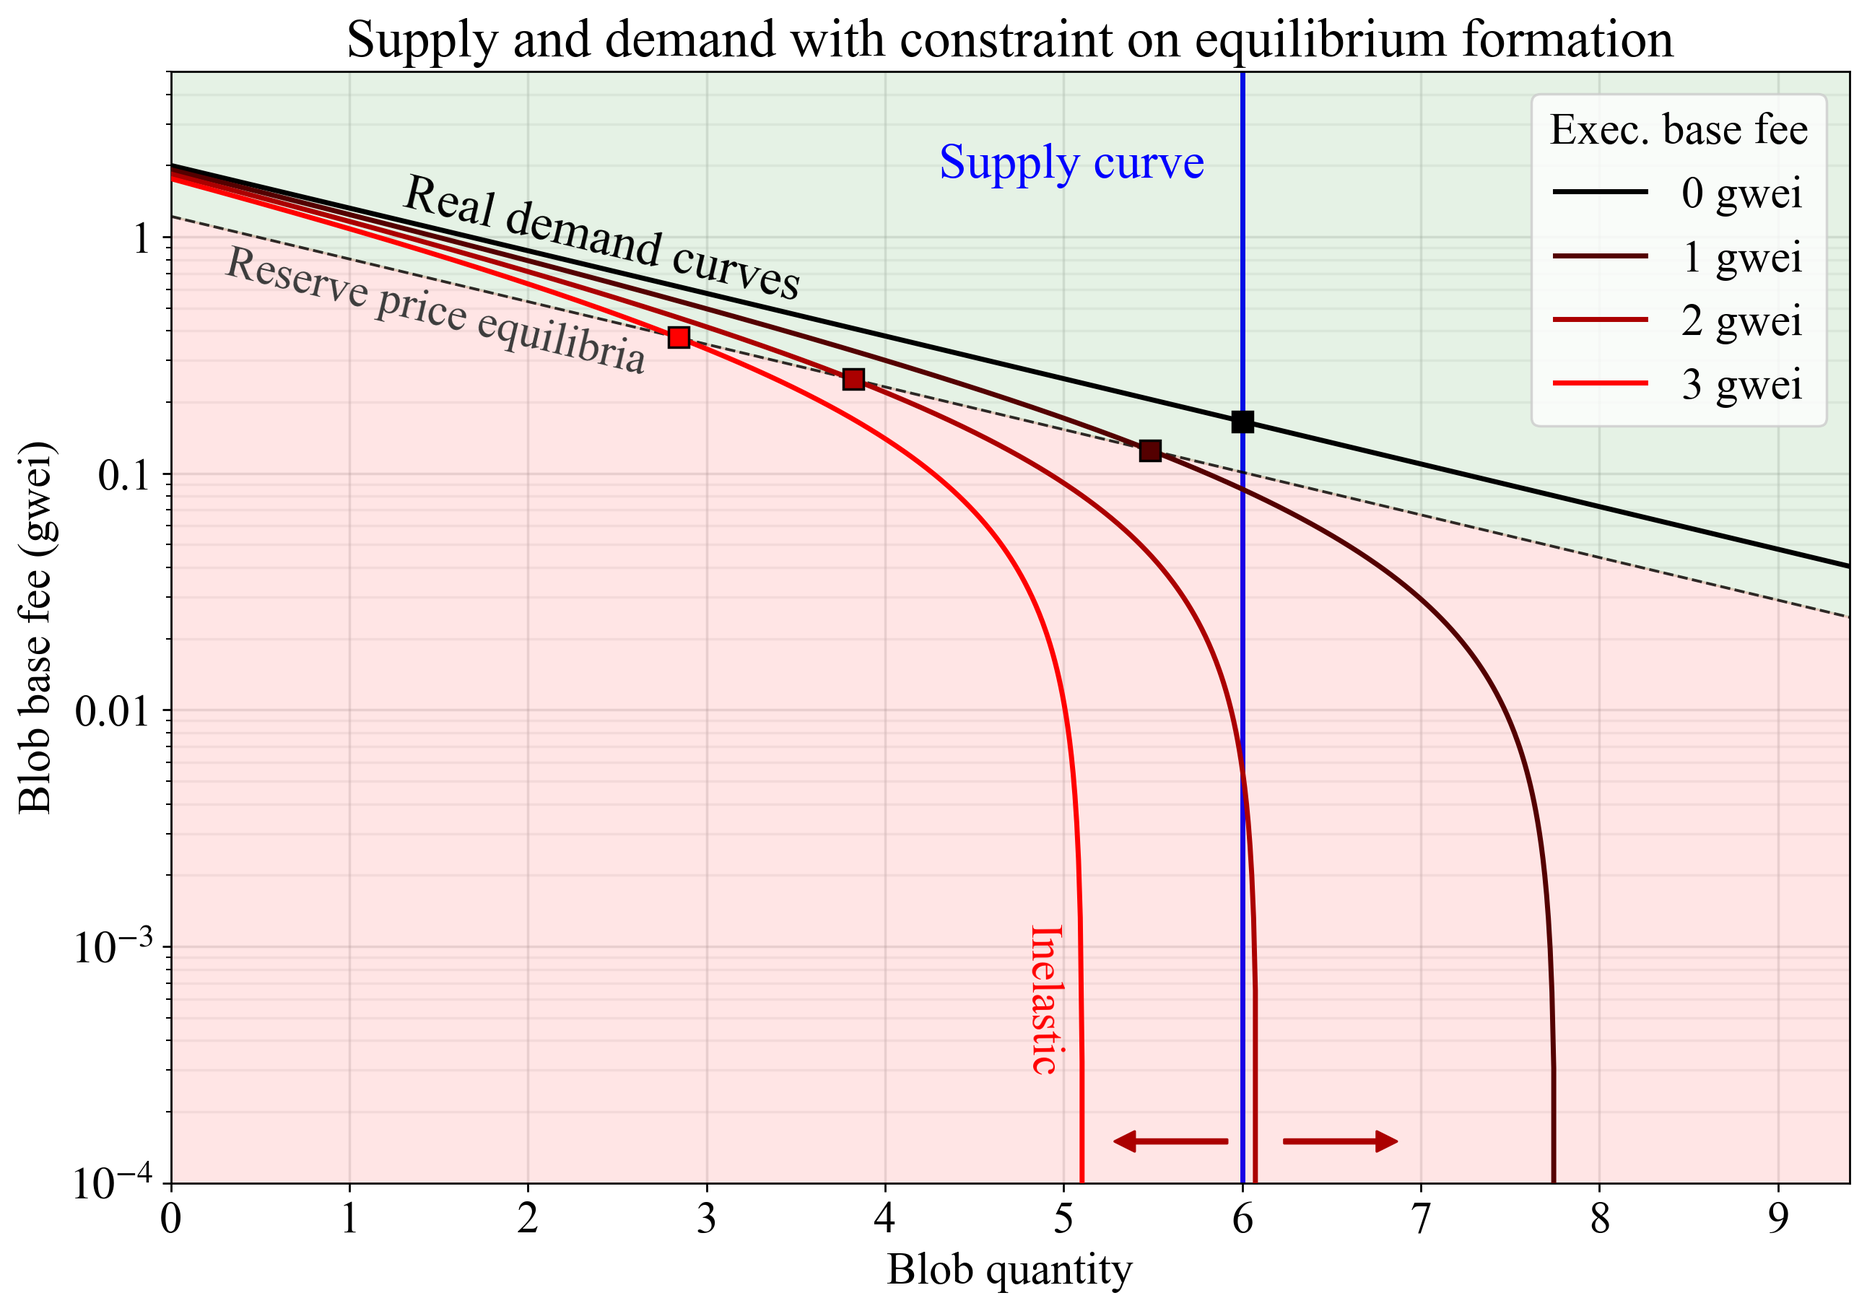
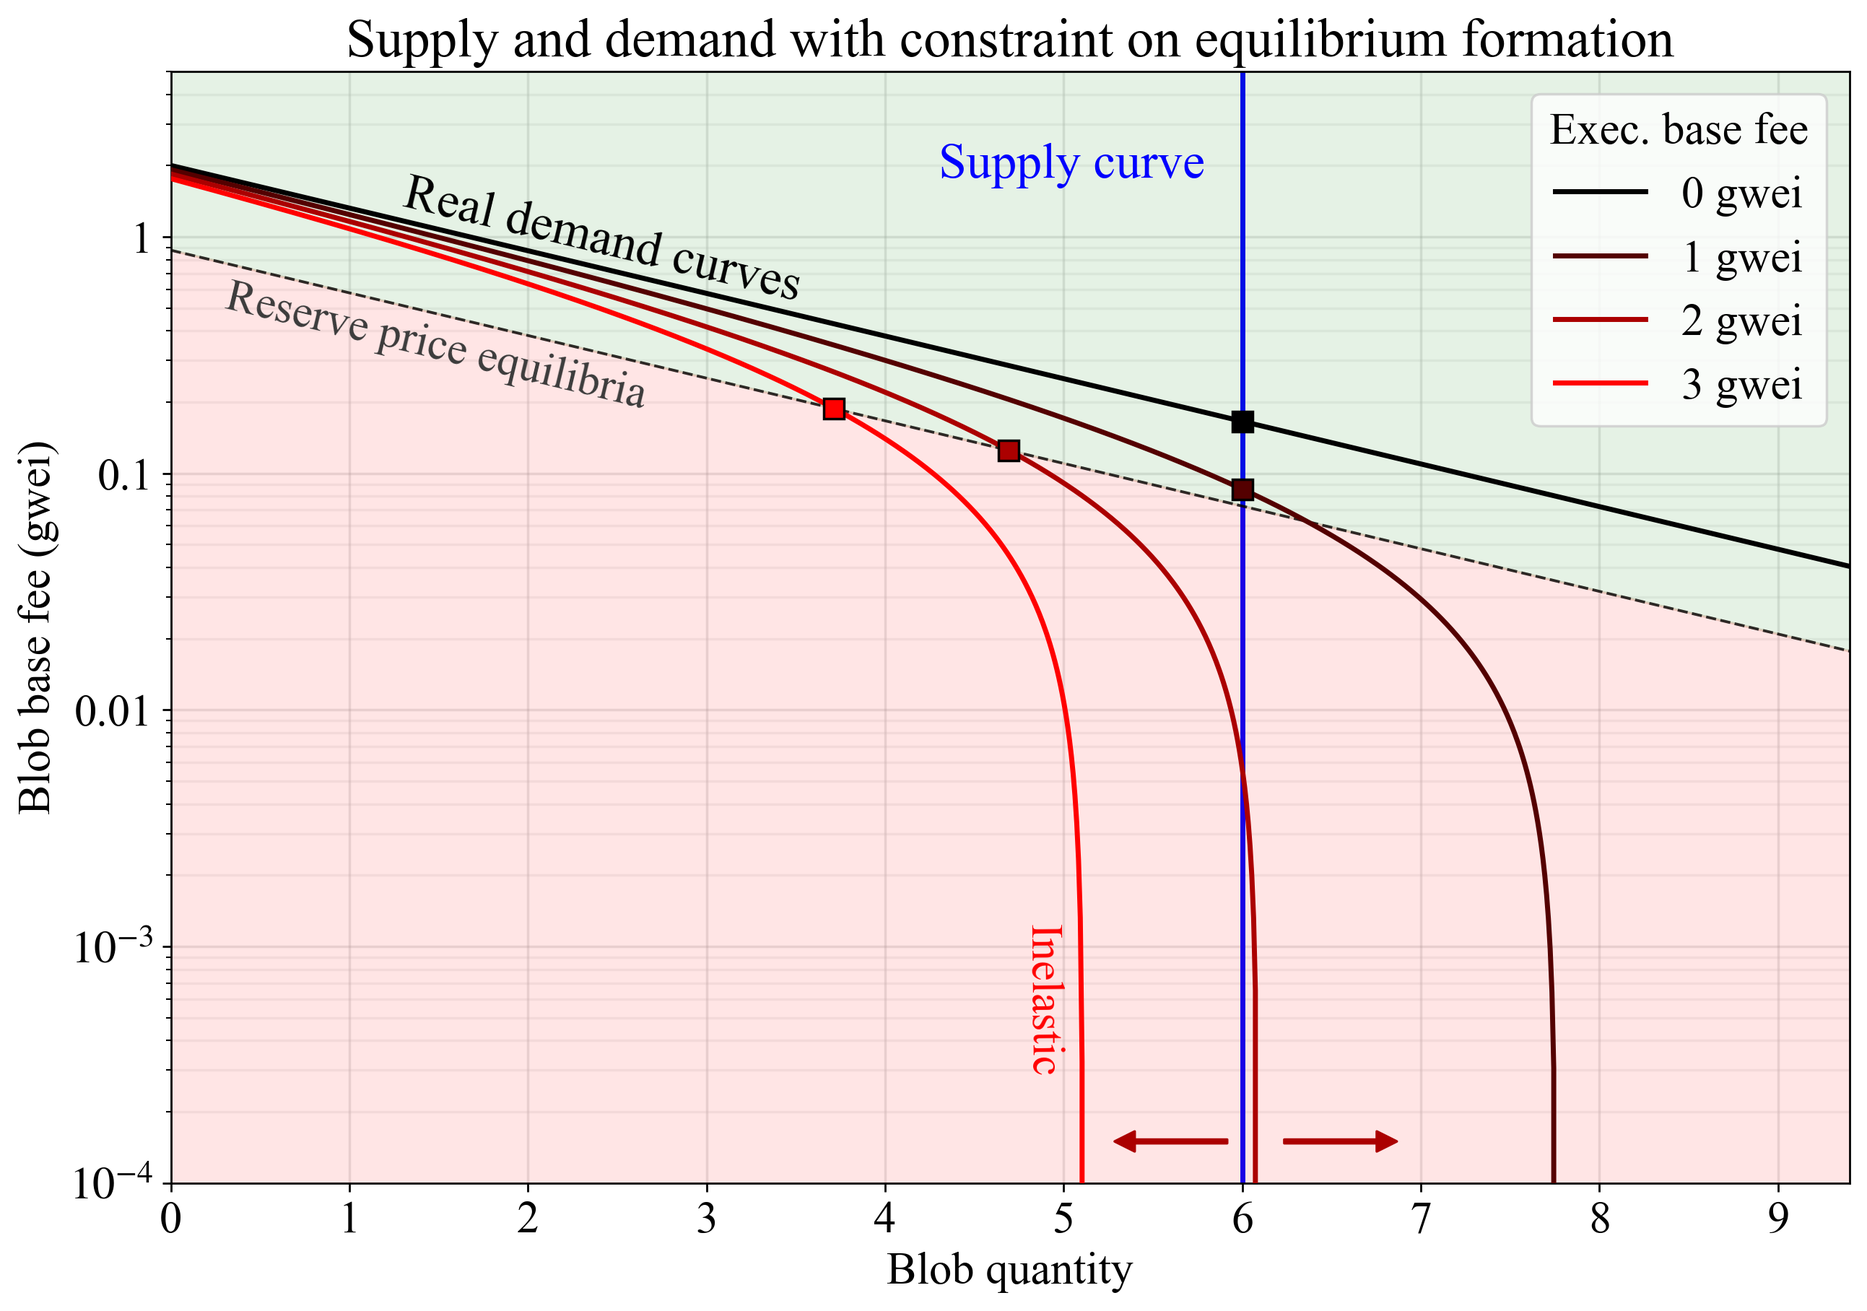
Improved clarity in the Motivation, Specification, and Rationale, and updated Figure 1

Changed region(s): [[0.0928, 0.1542, 0.9899, 0.4934]]

diff --git a/EIPS/eip-7918.md b/EIPS/eip-7918.md
@@ -1,7 +1,7 @@
 ---
 eip: 7918
 title: Blob base fee bounded by execution cost
-description: Imposes that the price for GAS_PER_BLOB is greater than the price for BLOB_BASE_COST
+description: Imposes that the price for GAS_PER_BLOB blob gas is greater than the price for BLOB_BASE_COST execution gas.
 author: Anders Elowsson (@anderselowsson), Ben Adams (@benaadams), Francesco D'Amato (@fradamt)
 discussions-to: https://ethereum-magicians.org/t/eip-blob-base-fee-bounded-by-price-of-blob-carrying-transaction/23271
 status: Review
@@ -13,22 +13,16 @@ requires: 4844, 7840
 
 ## Abstract
 
-This EIP assigns a reserve price `BLOB_BASE_COST * base_fee_per_gas` to blobs by introducing an `if`-clause in `calc_excess_blob_gas()`. Specifically, when the reserve price is higher than `GAS_PER_BLOB * base_fee_per_blob_gas`, the function will not subtract `target_blob_gas` from `excess_blob_gas`, instead imposing `excess_blob_gas` to increase according to `blob_gas_used`, but rebalanced to maintain the same maximum increase. The proposal ensures that the blob fee market can function properly and that blob consumers pay at least a relevant fraction of the market rate for the compute they request from nodes.
+This EIP assigns a reserve price `BLOB_BASE_COST * base_fee_per_gas` to blobs by introducing an `if`-clause in `calc_excess_blob_gas()`. Specifically, when the reserve price is higher than `GAS_PER_BLOB * base_fee_per_blob_gas`, the function will not subtract `target_blob_gas` from `excess_blob_gas`, causing `excess_blob_gas` to increase according to `blob_gas_used`, while keeping the per-block maximum increase unchanged. The proposal ensures that the blob fee market can function properly and that blob consumers pay at least a relevant fraction of the market rate for the compute they request from nodes.
 
 ## Motivation
 
-Ethereum uses a dynamic pricing auction to set the blob base fee, lowering the fee if less gas is consumed than `target_blob_gas = GAS_PER_BLOB * blobSchedule.target` and raising the fee if more gas is consumed. Such an auction can function well when the blob base fee represents the price signal, allowing the mechanism to control the real price facing the consumer. However, when a rollup's costs are dominated by, e.g., executing blob-carrying transactions, ZK proof verification, or paying priority fees, the price signal is lost. The blob base fee no longer represents a significant component of the total cost facing the consumer, and the protocol can no longer rely on the blob base fee to control the equilibrium quantity of blobs consumed. The current mechanism can therefore end up repeatedly lowering the blob base fee until it eventually settles at 1 wei. A change in the blob base fee of 10% may under such circumstances shift the total cost of utilizing blobspace by just 0.0000001%. Whenever demand picks up, over an hour of near-full blocks is required to restore a market-clearing equilibrium fee, with the mechanism intermittently resorting to a first-price auction, considered a worse UX by blob consumers. The resulting spikiness in resource consumption is suboptimal for scaling blobspace. 
+Ethereum uses a dynamic pricing auction to set the blob base fee, lowering the fee if less gas is consumed than `target_blob_gas = GAS_PER_BLOB * blobSchedule.target` and raising the fee if more gas is consumed. Such an auction can function well when the blob base fee represents the price signal, allowing the mechanism to control the real price for blob consumers. However, when execution costs dominate, the price signal is lost. The blob base fee then no longer represents a significant component of the total cost facing the consumer, and the protocol can no longer rely on the blob base fee to control the equilibrium quantity of blobs consumed. The current mechanism can therefore end up repeatedly lowering the blob base fee until it eventually settles at 1 wei. A change in the blob base fee of 10% may under such circumstances shift the total cost of utilizing blobspace by just 0.0000001%. Whenever demand picks up, over an hour of near-full blocks is required to restore a market-clearing equilibrium fee, with the mechanism intermittently resorting to a first-price auction, considered a worse UX by blob consumers. The resulting spikiness in resource consumption is suboptimal for scaling blobspace.
 
-Figure 1 shows how execution costs make the real demand curve inelastic, such that relatively small shifts in organic demand or execution base fee (arrows) can lead to dramatic shifts in the equilibrium blob base fee. To alleviate this, the proposal imposes a reserve price, that reflects execution costs, through a simple `if`-clause in `calc_excess_blob_gas()`. The equilibrium (squares) must then form somewhere along the edge of the upper-left quadrant, bounded by the blue supply curve and the dashed curve representing possible reserve price equilibria under real demand (see rationale for a further elaboration).
+To alleviate this, the proposal imposes a reserve price that reflects execution costs, through a simple `if`-clause in `calc_excess_blob_gas()`. The reserve price also fulfills a second function. Nodes must cryptographically verify KZG `proofs` to ensure that associated `commitments` correspond to provided blobs. This process is computationally expensive. It seems desirable to ensure that blob consumers pay at least some fraction of the market rate for the compute they impose on nodes. In this context, the execution base fee reflects how in-demand nodes' compute services are at the time that blob consumers request them. By applying the reserve price to the blob base fee, the proposal jointly ensures that:
 
-The reserve price also fulfills a second function. Nodes must cryptographically verify KZG `proofs` to ensure that associated `commitments` correspond to provided blobs. This process is computationally expensive. It seems desirable to ensure that blob consumers pay at least some fraction of the market rate for the compute they impose on nodes. In this context, the execution base fee reflects how in-demand nodes' compute services are at the time that blob consumers request them. By applying the reserve price to the blob base fee, the proposal jointly ensures that:
-
-1. The blob base fee update mechanism can function properly, by establishing a reserve price which is significant relative to L1 execution costs of the blob consumer. 
+1. The blob base fee update mechanism can function properly, by establishing a reserve price which is significant relative to L1 execution costs of blob consumers (e.g., rollups). 
 2. Blob consumers pay at least a relevant fraction of the market rate for the compute they request from nodes, with any additional fees for data determined independently in the blob fee market.
-
-![Figure 1](../assets/eip-7918/1.png)
-
-**Figure 1.** The real demand for blobspace under different execution base fees (black to red lines). When execution cost dominates, the real demand curve becomes inelastic and parallel to the supply curve, leading the equilibrium fee to change dramatically even with small shifts in the demand curve (arrows). The proposal imposes that the equilibrium (square) forms on the edges of the upper-left quadrant, at the intersection between the target supply curve and demand or along the dashed line representing possible reserve price equilibria accounting for execution costs.
 
 ## Specification
 
@@ -40,7 +34,7 @@ The reserve price also fulfills a second function. Nodes must cryptographically 
 
 ### Functions
 
-An `if`-clause is added to `calc_excess_blob_gas()` from [EIP-4844](./eip-4844.md). The function no longer subtracts `target_blob_gas` when updating `excess_blob_gas`, if the price of a `blob` is below the price of `BLOB_BASE_COST` execution gas. The `blobSchedule` for referencing target and max blobs was introduced in [EIP-7840](./eip-7840.md). The *current block's* `blobSchedule` is used during processing. Thus, when calculating the `base_fee_per_blob_gas` via `get_base_fee_per_blob_gas(parent)` after a hard fork, the `fake_exponential()` function is called with the *new* `blobSchedule.baseFeeUpdateFraction`. Likewise, the *new* `blobSchedule.max` and `blobSchedule.target` are used in `calc_excess_blob_gas()`.
+An `if`-clause is added to `calc_excess_blob_gas()` from [EIP-4844](./eip-4844.md). The function no longer subtracts `target_blob_gas` when updating `excess_blob_gas`, if the price of a `blob` is below the price of `BLOB_BASE_COST` execution gas. The `blobSchedule` for referencing target and max blobs was introduced in [EIP-7840](./eip-7840.md). The current block's `blobSchedule` is used during processing. Thus, in the first post-fork block—when calculating `base_fee_per_blob_gas` via `get_base_fee_per_blob_gas(parent)`—`fake_exponential()` must use the *new* `blobSchedule.baseFeeUpdateFraction`. Likewise, the *new* `blobSchedule.max` and `blobSchedule.target` must be used in `calc_excess_blob_gas()`.
 
 ```python
 def calc_excess_blob_gas(parent: Header) -> int:
@@ -58,35 +52,39 @@ def calc_excess_blob_gas(parent: Header) -> int:
 
 ### Fee-inelasticity and reserve price
 
-This proposal alleviates idiosyncrasies in the blob base fee auction. The fee update mechanism is unaware of the full price of the goods that it regulates the price for and therefore fails to converge on equilibrium in a timely manner. To resolve this, a link to the price of execution gas is required. A relatively high cost of execution gas renders changes to the blob base fee less effective in controlling quantity demanded—it is then ultimately the execution cost that determines equilibrium formation. Given that the protocol stipulates a long-run perfectly inelastic supply curve (vertical blue line in Figure 1), the blob base fee will simply fall to the boundary of 1 wei whenever the execution cost is too high for consumers to achieve equilibrium formation at `target_blog_gas`. Thus, in the regime where execution fees dominate, the demand curve is *blob fee-inelastic*, and whenever the blob fees dominate, the demand curve is *execution fee-inelastic*. Figure 1 illustrates the real demand function
+This proposal alleviates idiosyncrasies in the blob base fee auction. When a rollup's costs are dominated by execution costs for the blob-carrying transactions, ZK proof verification, or priority fees, the protocol can no longer rely on the blob base fee to control the equilibrium quantity of blobs consumed. The fee update mechanism is unaware of the full price of the goods that it regulates the price for and therefore fails to converge on equilibrium in a timely manner. 
 
-$Q(b + c),$
+We can express a simple real demand function for blobspace as
 
-mapping quantity of blobs demanded $Q$ to the blob base fee $b$ and the user's execution costs, expressed "per blob gas", $c$:
+$Q(b + c).$
+
+It maps the quantity of blobs demanded $Q$ to the blob base fee $b$ and the user's execution costs, expressed "per blob gas", $c$:
 
 ```python
 c = execution_cost * base_fee_per_gas / GAS_PER_BLOB
 ```
 
-If $c>0$, the demand curve will have an "inelasticity horizon" (see Figure 1), beyond which further reductions in $b$ no longer increase $Q$, rendering such fee reductions redundant:
+According to the *law of demand*, the lower the price $b+c$, the higher the demand. From the perspective of the blob base fee update mechanism, $c$ is fixed. If $c>0$, the demand curve will therefore have an "inelasticity horizon", beyond which further reductions in $b$ no longer increase $Q$:
 
 $\lim_{b \to 0} Q(b + c) = Q(c).$
 
-To avoid the inelasticity horizon, a reserve price $b_r$ is specified below which $b$ cannot be reduced further. It is calculated from the new constant `BLOB_BASE_COST` as: 
+In essence, the demand curve becomes a vertical line, where changes to the blob base fee $b$ no longer affect demand. Figure 1 illustrates this, with real demand curves (black to red) computed under four different execution base fees when purchasing two blobs. The hypothetical organic demand is illustrated in black. Any line with $c>0$ eventually becomes vertical as the blob base fee falls. The protocol also uses a long-run perfectly inelastic supply curve (vertical blue line). Therefore, relatively small shifts in organic demand or the execution base fee (arrows) can lead to dramatic shifts in the equilibrium blob base fee. Importantly, the blob base fee will simply fall to the boundary of 1 wei whenever the execution cost is too high for consumers to achieve equilibrium formation at `target_blob_gas`.
+
+![Figure 1](../assets/eip-7918/1.png)
+
+**Figure 1.** Hypothetical real demand for blobspace under different execution base fees (black to red lines). When execution cost dominates, the real demand curve becomes inelastic and parallel to the supply curve, leading the equilibrium fee to change dramatically even with small shifts in the demand curve (arrows). The proposal imposes that the equilibrium (square) forms on the edges of the upper-left quadrant, at the intersection between the target supply curve and demand or along the dashed line representing possible reserve price equilibria accounting for execution costs.
+
+To improve the fee update mechanism, a reserve price is specified below which $b$ cannot be reduced. Specifically, we define a constant `BLOB_BASE_COST` and in `calc_excess_blob_gas` do not subtract `target_blob_gas` if: 
 
 ```python
-b_r = BLOB_BASE_COST * base_fee_per_gas / GAS_PER_BLOB
+BLOB_BASE_COST * base_fee_per_gas > GAS_PER_BLOB * base_fee_per_blob_gas
 ```
 
-As long as $b_r$ is a relevant fraction of $c$, the fee update mechanism will always be able to regulate demand by increasing the blob base fee whenever there is contention for blobspace, alleviating spikiness in resource consumption. The blob fee's share of the total price ($b+c$) will with the reserve price always be at least 
+This means that the reserve blob base fee becomes `BLOB_BASE_COST * base_fee_per_gas / GAS_PER_BLOB` and that the ratio between the reserve price for the blob base fee and the execution base fee is fixed to: `BLOB_BASE_COST / GAS_PER_BLOB`. This ratio is `1/16` with the proposed constant. 
 
-$\frac{b_r}{b_r+c}$, which simplifies to `BLOB_BASE_COST / (BLOB_BASE_COST + execution_cost)`.
-
-This is why the equilibrium under the reserve price (dashed line in Figure 1) is situated a constant fraction $2^{13}/(2^{13}+10500)$ below the black demand curve formed under a 0 execution base fee.
+The blob fee's share of the total price will with the reserve price always be at least `BLOB_BASE_COST / (BLOB_BASE_COST + execution_cost)`. This is why the equilibrium under the reserve price (dashed line in Figure 1) is situated a constant fraction below the black organic demand curve formed under a zero execution base fee. The equilibrium (squares) must then form somewhere along the edge of the upper-left quadrant, bounded by the blue supply curve and the dashed curve representing possible reserve price equilibria under real demand.
 
 The demand curve could potentially be somewhat inelastic even under zero execution costs. This would however just be another reason to move forward with this proposal. Regardless of the exact shape of the demand curve—which of course will remain unknown and can vary going forward—the proposal is based on something tangible affecting blob consumers. This makes it a justified neutral bound on the blob base fee.
-
-The ratio between the reserve price for the blob base fee and the execution base fee is fixed: `BLOB_BASE_COST / GAS_PER_BLOB`, which is 1/16 with the proposed constant. The relationship follows from the new `if`-clause in `calc_excess_blob_gas()`.
 
 ### Blob KZG proof verification cost
 
@@ -102,7 +100,7 @@ EIP-4844 introduced the first phase of Ethereum's data availability sampling (DA
 
 For the verification performed on the CL in PeerDAS, the ability to jointly process cell proofs of a column (from all blobs) through batching reduces the compute time spent per blob as the number of blobs increases. When columns are batched sequentially, the compute time per blob is still quite high relative to the point evaluation. It is also possible to batch all columns jointly or to parallelize the processing across columns. When accounting for the prospect of parallelization for the CL, it is however worth remembering that the point evaluation proof verification performed by rollups using the precompile should generally not have many dependencies on other transactions in the execution block (both the point evaluation itself and operations taken conditional on the outcome) and thus also lends itself to parallelization. Such parallelization is an important current research focus. This means that a comparison between the point evaluation and the sequential processing of blobs (batched per column) is still relevant (because *both* could be parallelized). 
 
-Figure 1 shows verification time per blob divided by the measured execution time of a single point evaluation operation (performed by the `VerifyKZGProof` precompile) for various configurations. The figure indicates that blobs under the current Fusaka PeerDAS specification will subject nodes to rather heavy compute requirements—when compared to the single point evaluation proof verification that a smart contract is charged `POINT_EVALUATION_PRECOMPILE_GAS` for. A full node would for example do the EL mempool verification for all blobs propagated p2p (already 15x). It would also sample 8 columns which at a target of 32 blobs requires 2x more time when done sequentially (batching each column separately), and they would finally custody 4 designated columns which are about equally as demanding as the point evaluation. How to price the KZG proof verification is however a complex question given the varying contexts in which it is performed. The proposed constant `BLOB_BASE_COST` is indicated by a green line and relatively moderate in comparison with the compute costs imposed on nodes. It is stipulated below the cost of full batching for DAS (8 columns), even under a very high blob count.
+Figure 2 shows verification time per blob divided by the measured execution time of a single point evaluation operation (performed by the `VerifyKZGProof` precompile) for various configurations. The figure indicates that blobs under the current Fusaka PeerDAS specification will subject nodes to rather heavy compute requirements—when compared to the single point evaluation proof verification that a smart contract is charged `POINT_EVALUATION_PRECOMPILE_GAS` for. A full node would for example do the EL mempool verification for all blobs propagated p2p (already 15x). It would also sample 8 columns which at a target of 32 blobs requires 2x more time when done sequentially (batching each column separately), and they would finally custody 4 designated columns which are about equally as demanding as the point evaluation. How to price the KZG proof verification is however a complex question given the varying contexts in which it is performed. The proposed constant `BLOB_BASE_COST` is indicated by a green line and relatively moderate in comparison with the compute costs imposed on nodes. It is stipulated below the cost of full batching for DAS (8 columns), even under a very high blob count.
 
 ![Figure 2](../assets/eip-7918/2.png)
 
